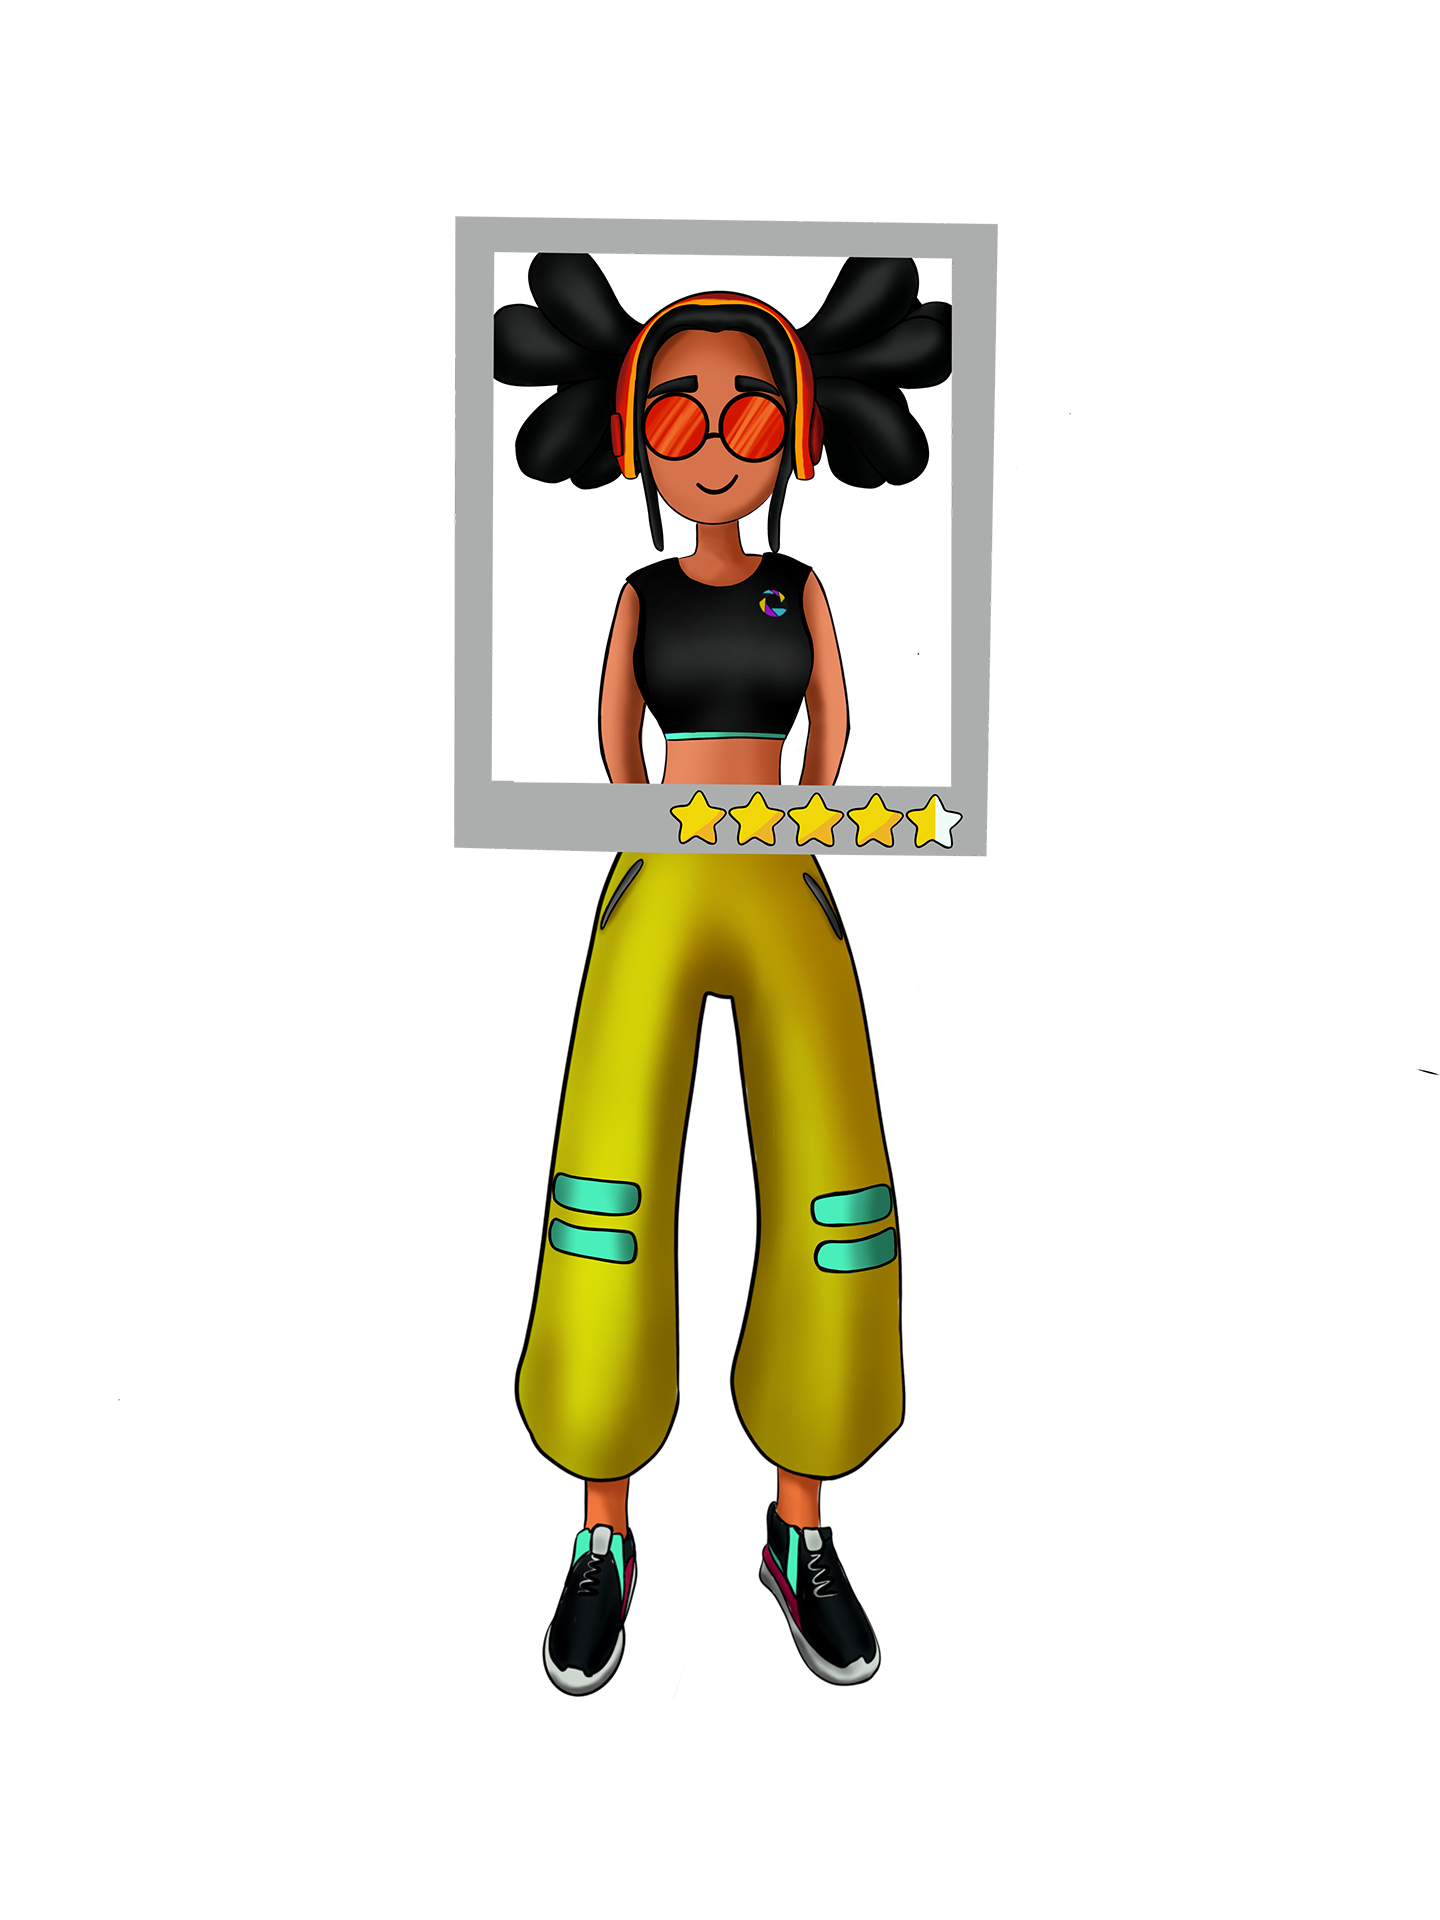
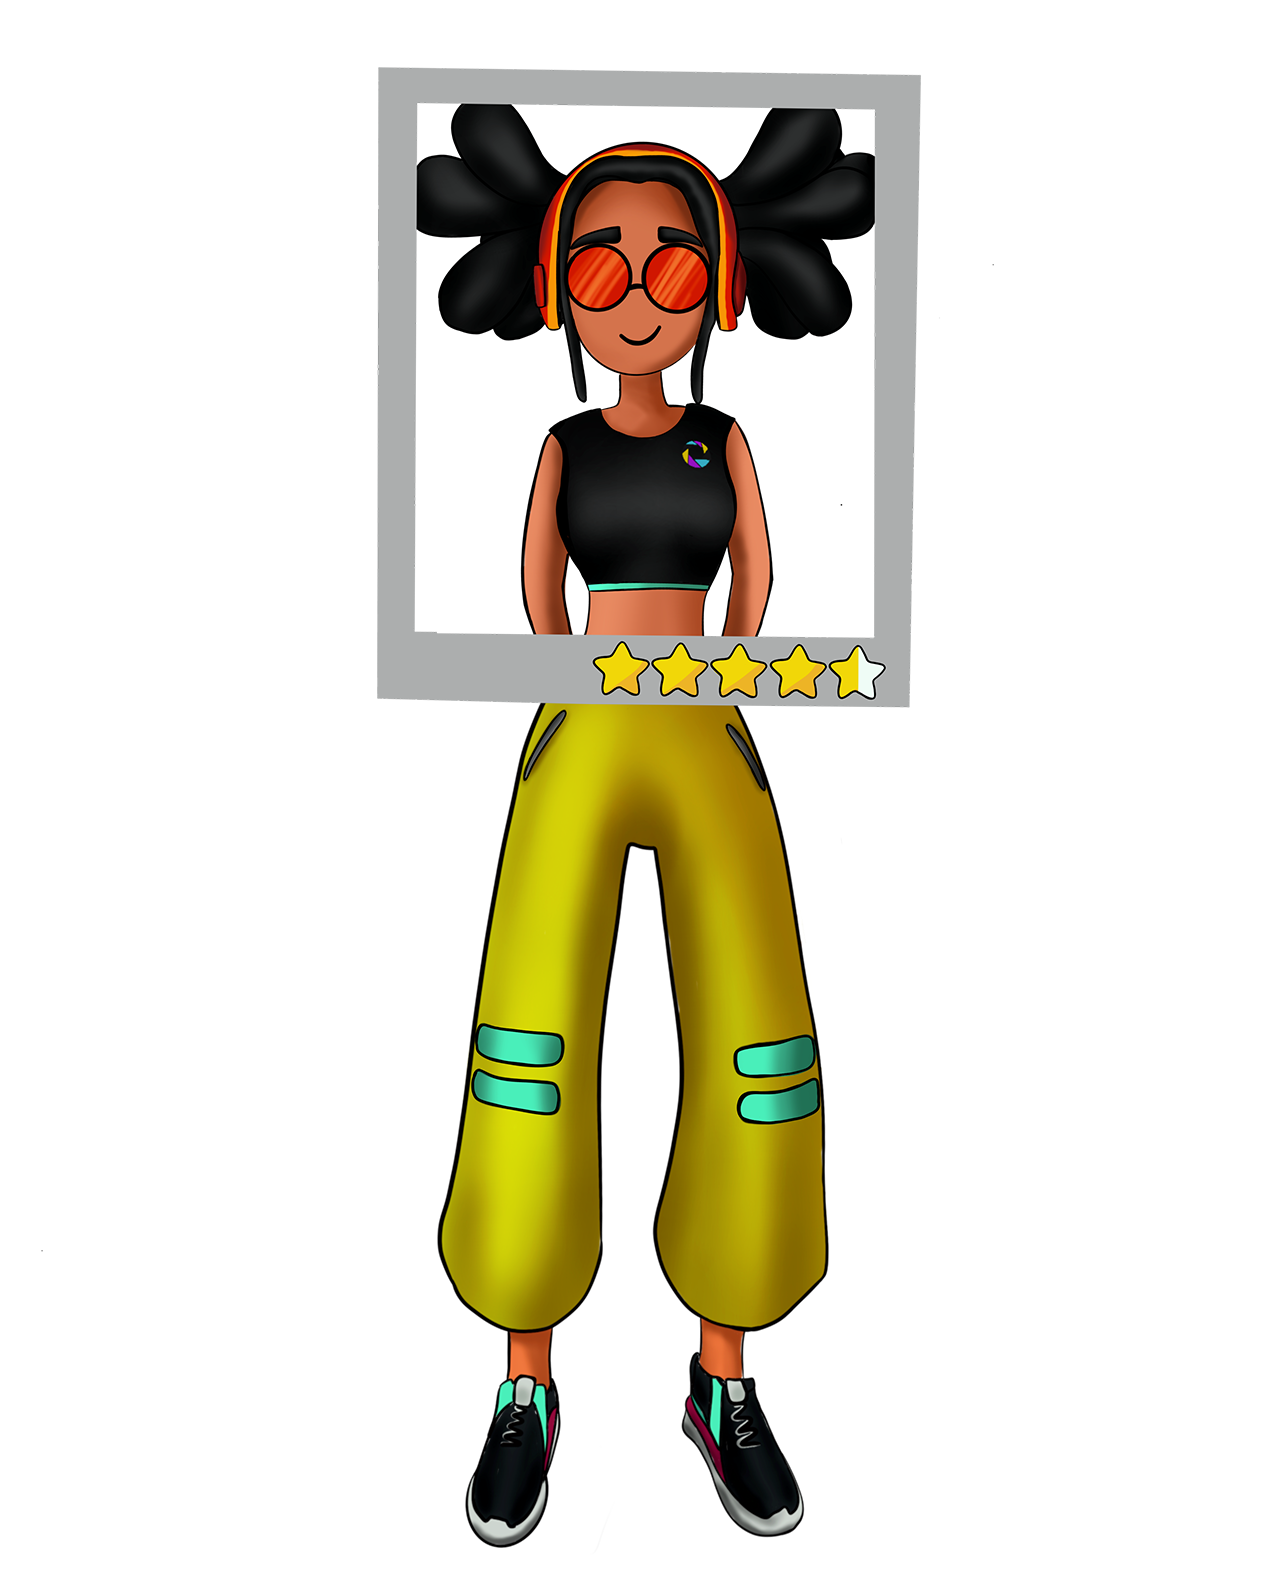
changed model position with meshY

Changed region(s): [[0.2802, 0.0307, 0.716, 0.9825]]

diff --git a/src/Components/user/User.jsx b/src/Components/user/User.jsx
@@ -73,48 +73,46 @@ const User = (props) => {
   };
   return (
     <>
-      {loading ? (
-        <Loading load={loading} />
-      ) : (
-        <ParentCon backgroundURL={"./images/teal-pixo.svg"}>
-          <ColumnCon>
-            <Heading text={"Personal Information"} />
+      {loading && <Loading load={loading} />}
 
-            <InputBox
-              placeholder={"First Name"}
-              value={fName}
-              onChangeHandler={firstNameHandler}
-            />
-            <InputBox
-              placeholder={"Last Name"}
-              value={lName}
-              onChangeHandler={lastNameHandler}
-            />
+      <ParentCon backgroundURL={"./images/teal-pixo.svg"}>
+        <ColumnCon>
+          <Heading text={"Personal Information"} />
 
-            {errorState && <Error errorMessage={errorMessage} />}
-            <RowCon className={classes.container}>
-              <Button
-                type="solid"
-                text={"Back"}
-                onClick={onClickBackPersonal}
-                errorState={errorState}
-              />
-              <Button
-                type="hollow"
-                text={"Next"}
-                onClick={onClickPersonal}
-                errorState={errorState}
-              />
-            </RowCon>
-          </ColumnCon>
-
-          <img
-            src="./images/tiltjs/idcard.png"
-            alt=""
-            className={classes.userImage}
+          <InputBox
+            placeholder={"First Name"}
+            value={fName}
+            onChangeHandler={firstNameHandler}
           />
-        </ParentCon>
-      )}
+          <InputBox
+            placeholder={"Last Name"}
+            value={lName}
+            onChangeHandler={lastNameHandler}
+          />
+
+          {errorState && <Error errorMessage={errorMessage} />}
+          <RowCon className={classes.container}>
+            <Button
+              type="solid"
+              text={"Back"}
+              onClick={onClickBackPersonal}
+              errorState={errorState}
+            />
+            <Button
+              type="hollow"
+              text={"Next"}
+              onClick={onClickPersonal}
+              errorState={errorState}
+            />
+          </RowCon>
+        </ColumnCon>
+
+        <img
+          src="./images/tiltjs/idcard.png"
+          alt=""
+          className={classes.userImage}
+        />
+      </ParentCon>
     </>
   );
 };

diff --git a/src/Components/three/cube.jsx b/src/Components/three/cube.jsx
@@ -16,9 +16,9 @@ function Cube() {
       0.1,
       1000
     );
-    camera.position.x = 1;
-    camera.position.y = 0;
-    camera.position.z = 4;
+    camera.position.x = 2;
+    camera.position.y = -0.5;
+    camera.position.z = 5.5;
 
     const renderer = new THREE.WebGLRenderer({
       // canvas: canvas,

diff --git a/src/Components/user/user.module.css b/src/Components/user/user.module.css
@@ -1,7 +1,9 @@
-.userImage{
-    margin-top: -2rem;
+.userImage {
+  margin-top: -2rem;
 }
-@media screen and (max-width: 900px) {
-    
+@media screen and (max-width: 420px) {
+  .userImage {
+    width: 75%;
+    margin-top: 0.5rem;
   }
-  
+}

diff --git a/src/Components/college/college.module.css b/src/Components/college/college.module.css
@@ -1,4 +1,10 @@
-.collegeImage{
-    height: 25rem;
-    margin-top: 2rem;
+.collegeImage {
+  height: 25rem;
+  margin-top: 2rem;
+}
+@media screen and (max-width: 420px) {
+  .collegeImage {
+    width: 55%;
+    margin-top: 0.5rem;
+  }
 }

diff --git a/src/Components/UI/Dropdown/Dropdown.module.css b/src/Components/UI/Dropdown/Dropdown.module.css
@@ -45,8 +45,8 @@
   background: #555;
 }
 
-@media screen and (max-width: 900px) {
+@media screen and (max-width: 420px) {
   .dropdown {
-    width: 65vw;
+    width: 100%;
   }
 }

diff --git a/src/Components/loading/Loading.css b/src/Components/loading/Loading.css
@@ -48,5 +48,6 @@
     color: white;
     overflow: hidden;
     z-index: 10000;
+    transform: translateY(-5%);
   }
 }
